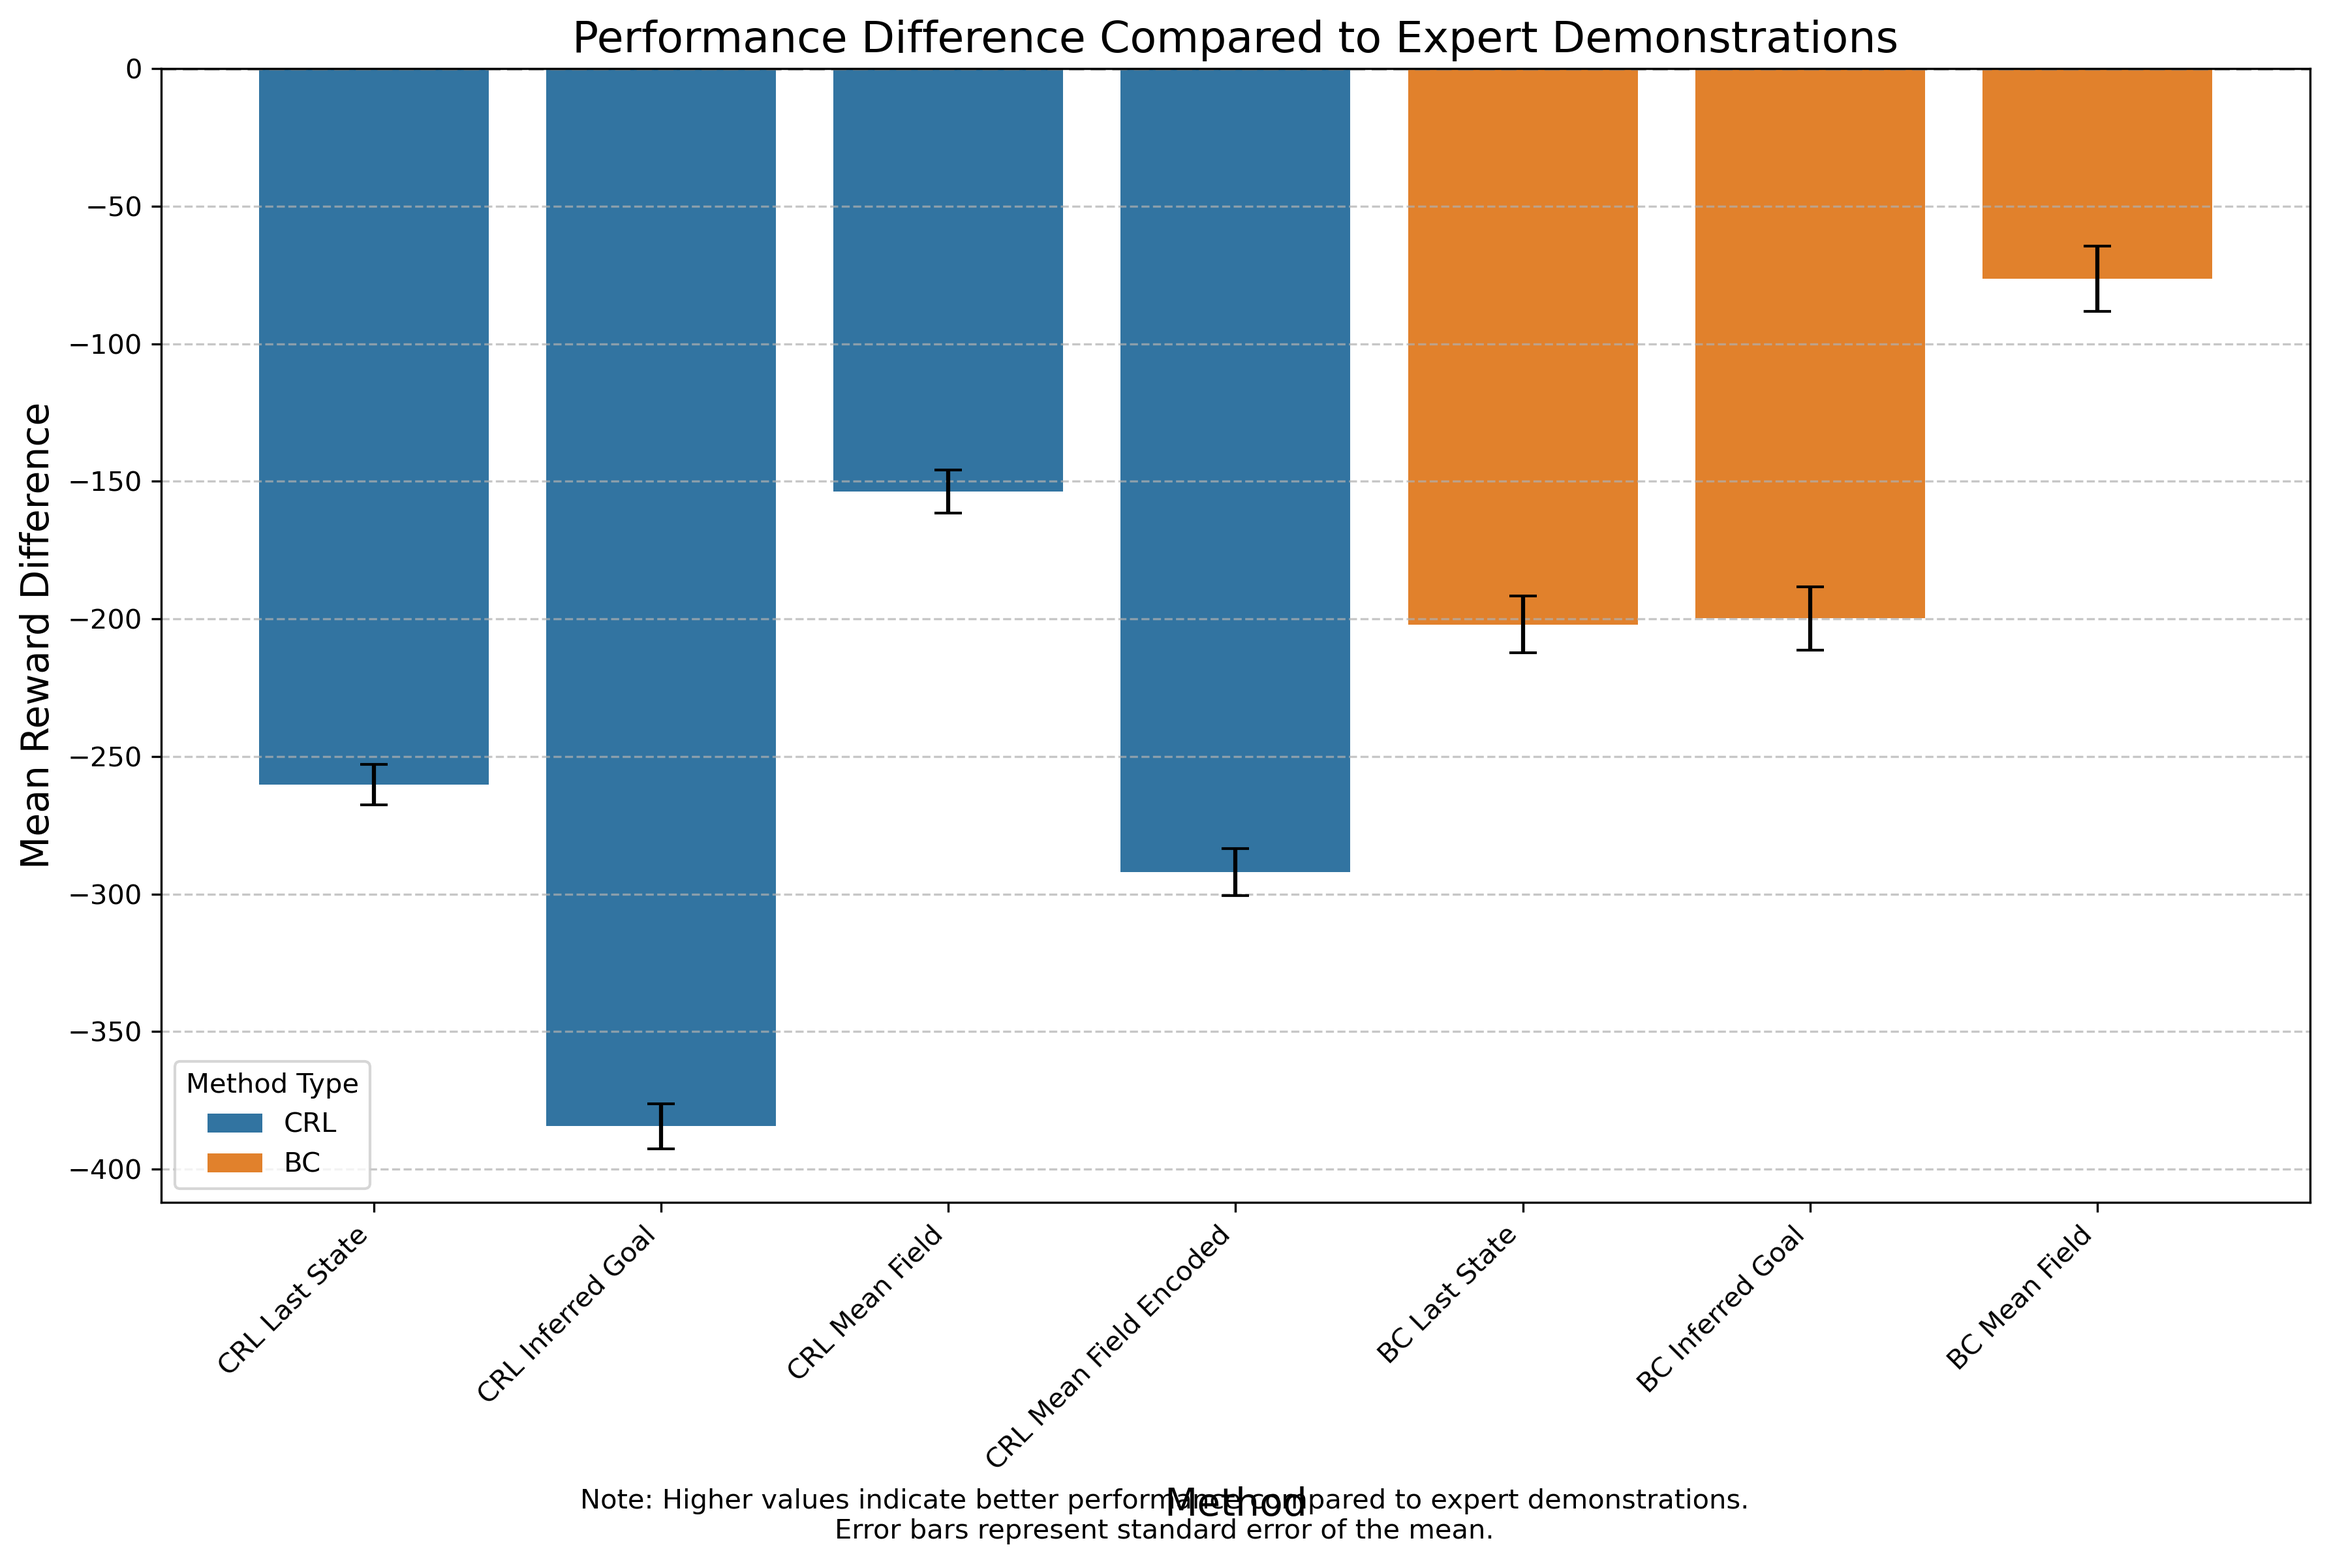
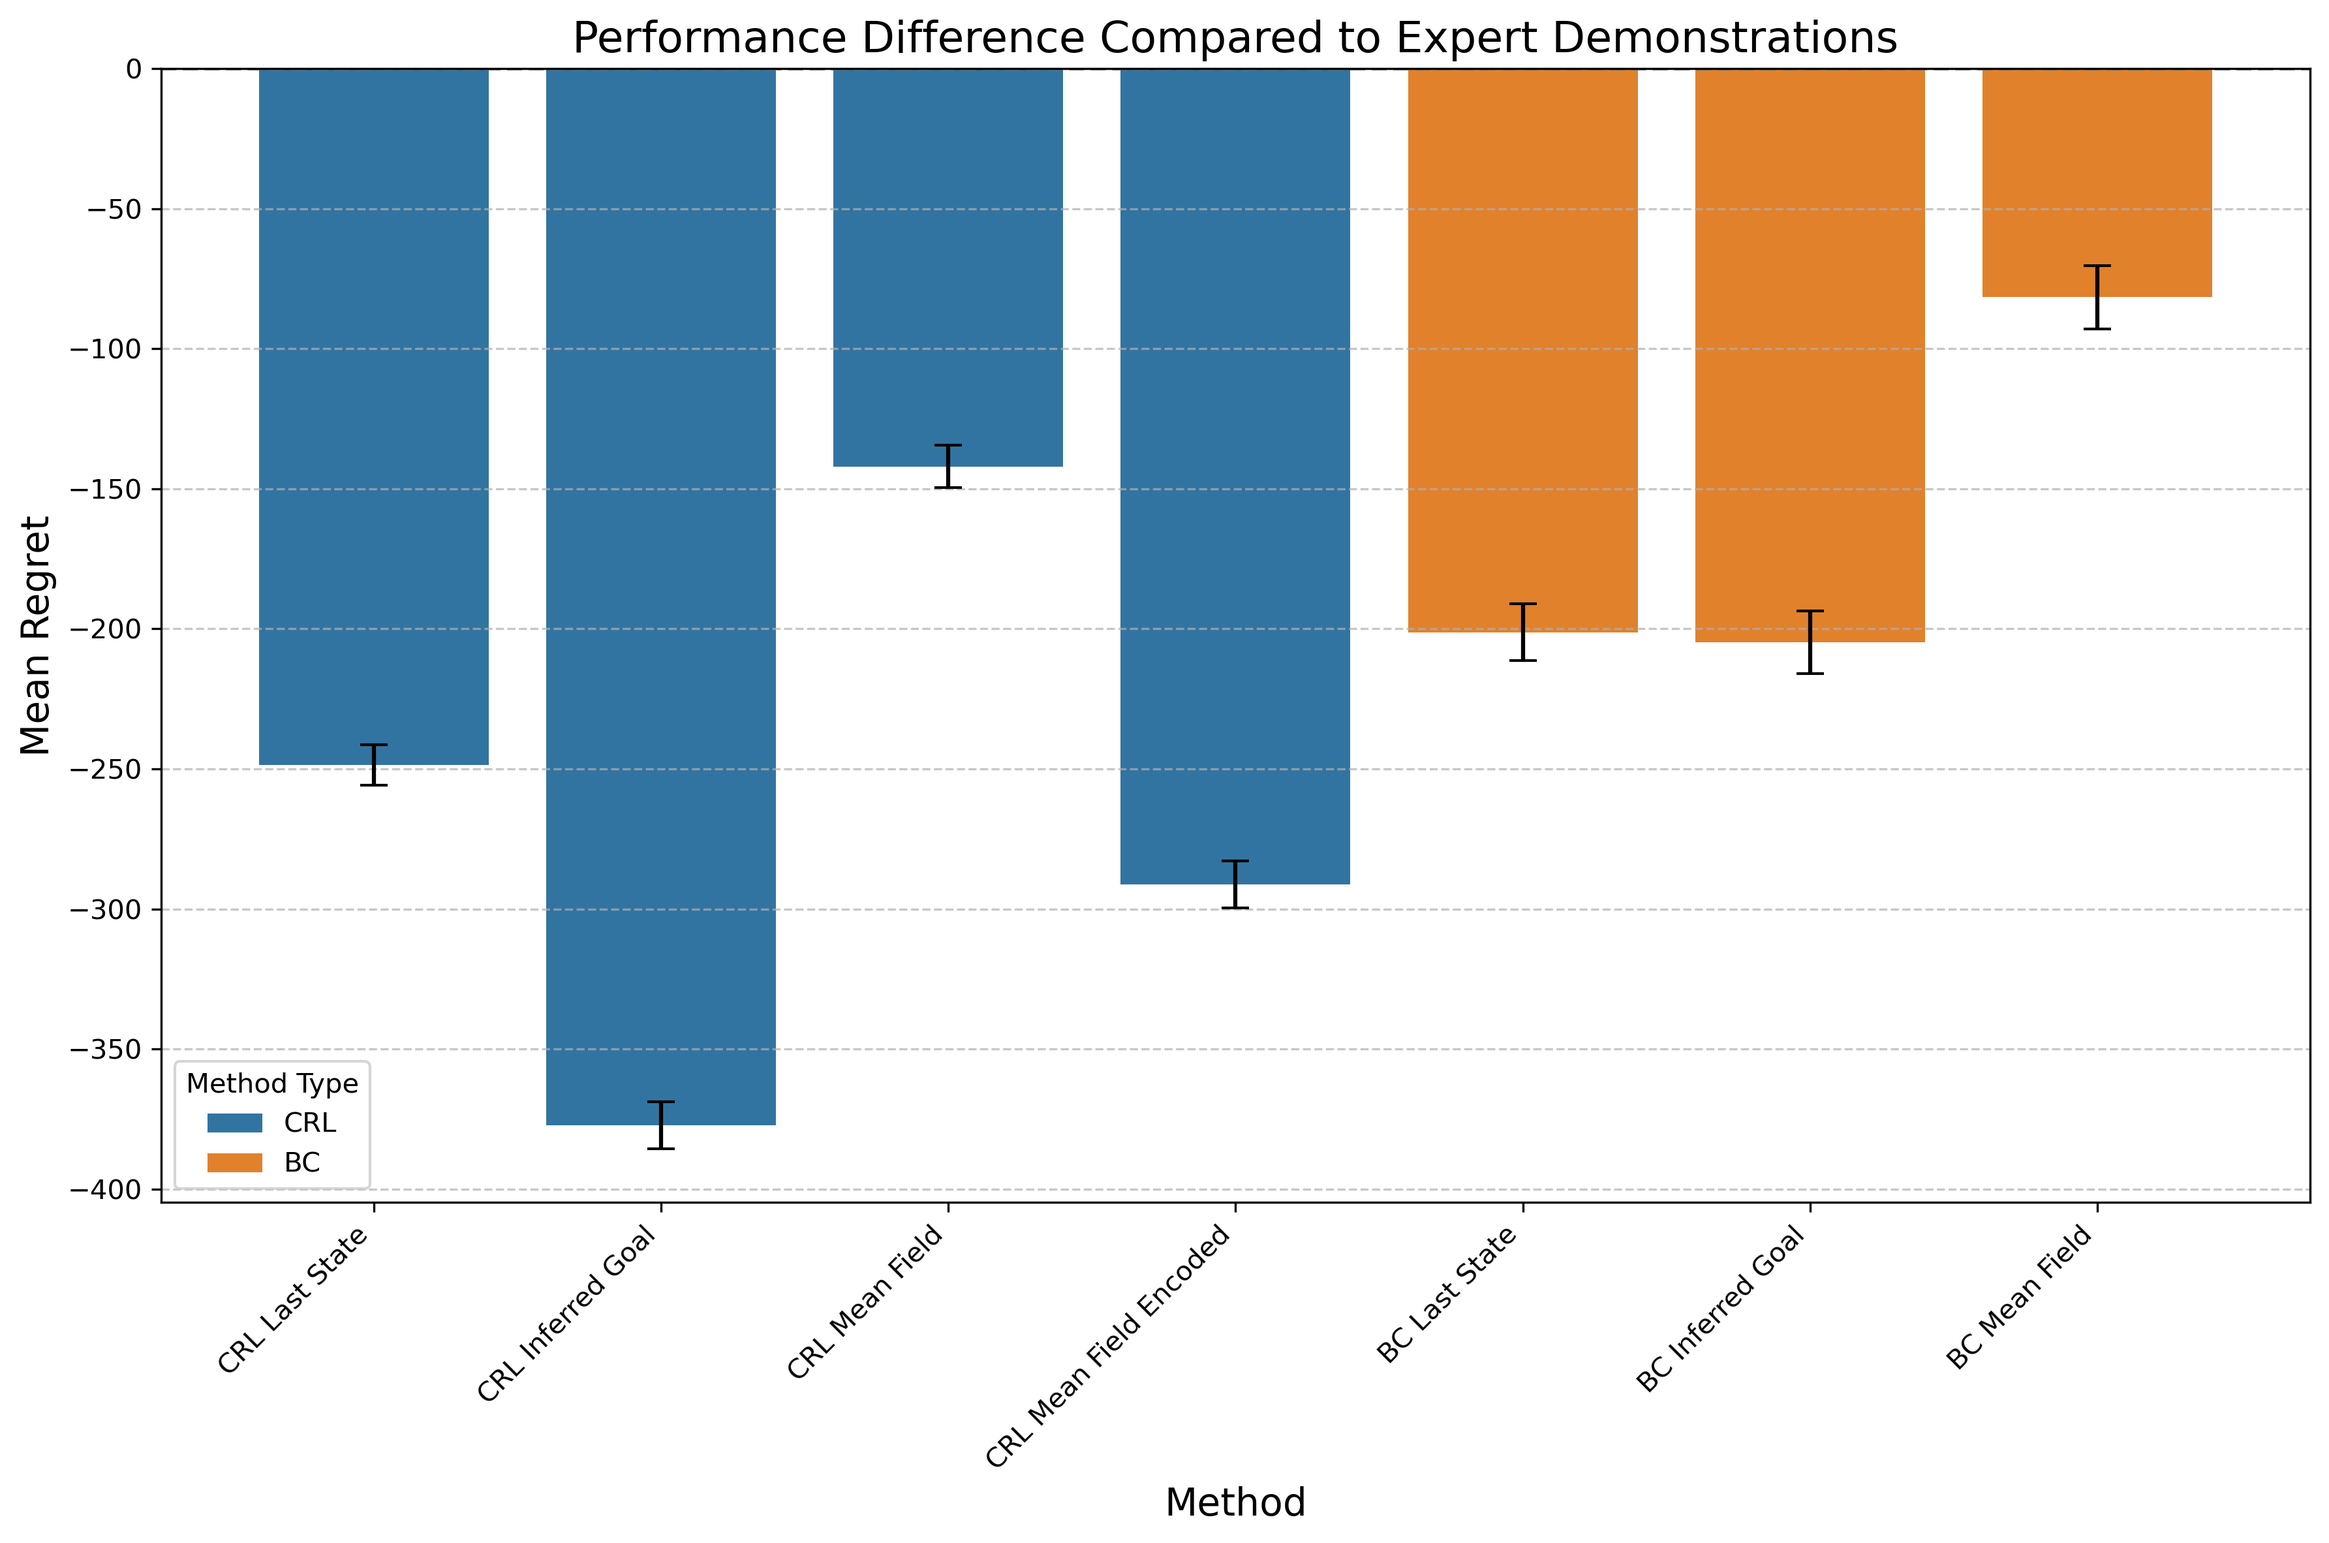
bc training updates (haven't run yet, might be buggy)

diff --git a/src/train_bc.py b/src/train_bc.py
@@ -77,7 +77,7 @@ class TrainingState:
     alpha_state: TrainState
     context_state: TrainState
 
-def _init_training_state(key, actor, context_encoder, mean_field, state_dim, goal_dim, action_dim, episode_length, actor_lr, alpha_lr, num_local_devices_to_use):
+def _init_training_state(key, actor, context_encoder, var_post, state_dim, goal_dim, action_dim, episode_length, actor_lr, alpha_lr, num_local_devices_to_use):
     """
     Initializes the training state for a contrastive reinforcement learning model. This function sets up the initial states for various components including the policy
     network, CRL networks, and optimizers. All parameters are initialized and replicated across the specified
@@ -109,7 +109,7 @@ def _init_training_state(key, actor, context_encoder, mean_field, state_dim, goa
     log_alpha = {"log_alpha": jnp.array(0.0)}
     alpha_state = TrainState.create(apply_fn=None, params=log_alpha, tx=optax.adam(learning_rate=alpha_lr))
 
-    if mean_field:
+    if var_post == "meanfield":
         dummy_input = jnp.ones([1, (state_dim + action_dim)])
     else:
         dummy_input = jnp.ones([1, (episode_length - 1) * (state_dim + action_dim)])
@@ -526,7 +526,7 @@ def train(
     n_hidden: int = 2,
     repr_dim: int = 64,
     visualization_interval: int = 5,
-    mean_field: bool = False,
+    var_post: str = "meanfield",
     saved_ckpt_path: Optional[str] = None,
 ):
     """
@@ -693,13 +693,13 @@ def train(
     # Initialize training state (not sure if it makes sense to split and fold local_key here)
     global_key, local_key = jax.random.split(rng)
     local_key = jax.random.fold_in(local_key, process_id)    
-    training_state = _init_training_state(global_key, actor, context_encoder, mean_field, env.state_dim, len(env.goal_indices), env.action_size, episode_length, policy_lr, alpha_lr, num_local_devices_to_use)
+    training_state = _init_training_state(global_key, actor, context_encoder, var_post, env.state_dim, len(env.goal_indices), env.action_size, episode_length, policy_lr, alpha_lr, num_local_devices_to_use)
     del global_key
     
     # Update functions (may replace later: brax makes it opaque)
     alpha_update = gradients.gradient_update_fn(alpha_loss, training_state.alpha_state.tx, pmap_axis_name=_PMAP_AXIS_NAME)
     actor_update = gradients.gradient_update_fn(actor_loss, training_state.actor_state.tx, pmap_axis_name=_PMAP_AXIS_NAME, has_aux=True)
-    if mean_field:
+    if var_post == "meanfield":
         context_update = gradients.gradient_update_fn(context_loss_meanfield, training_state.context_state.tx, pmap_axis_name=_PMAP_AXIS_NAME, has_aux=True)
     else:
         context_update = gradients.gradient_update_fn(context_loss, training_state.context_state.tx, pmap_axis_name=_PMAP_AXIS_NAME, has_aux=True)

diff --git a/notebooks/eval.py b/notebooks/eval.py
@@ -613,17 +613,17 @@ plt.axhline(y=0, color='gray', linestyle='--', alpha=0.7)
 
 # Customize the plot
 plt.title('Performance Difference Compared to Expert Demonstrations', fontsize=16)
-plt.ylabel('Mean Reward Difference', fontsize=14)
+plt.ylabel('Mean Regret', fontsize=14)
 plt.xlabel('Method', fontsize=14)
 plt.xticks(rotation=45, ha='right')
 plt.grid(axis='y', linestyle='--', alpha=0.7)
 plt.tight_layout()
 
 # Add a note explaining the interpretation
-plt.figtext(0.5, 0.01, 
-            "Note: Higher values indicate better performance compared to expert demonstrations.\n"
-            "Error bars represent standard error of the mean.", 
-            ha='center', fontsize=10)
+# plt.figtext(0.5, 0.01, 
+#             "Note: Higher values indicate better performance compared to expert demonstrations.\n"
+#             "Error bars represent standard error of the mean.", 
+#             ha='center', fontsize=10)
 
 # Save the figure
 plt.savefig('performance_comparison.png', dpi=300, bbox_inches='tight')

diff --git a/training_bc.py b/training_bc.py
@@ -74,7 +74,7 @@ def main(args):
         n_hidden=args.n_hidden,
         repr_dim=args.repr_dim,
         visualization_interval=args.visualization_interval,
-        mean_field=args.mean_field,
+        var_post=args.var_post,
         saved_ckpt_path=args.saved_ckpt_path,
     )
 
